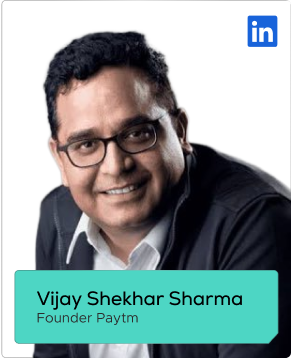
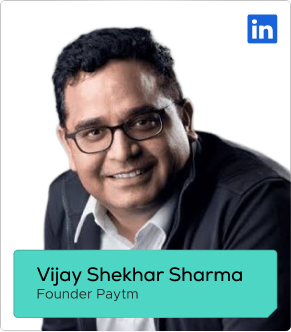
fixed

diff --git a/src/components/sections/about/AboutInvestorsSection.jsx b/src/components/sections/about/AboutInvestorsSection.jsx
@@ -11,7 +11,7 @@ import narayan from '../../../assets/images/narayanenv.png';
 const TOP_INVESTORS = [
   { name: 'Mohit Tandon', card: mohit, aspectRatio: '315 / 359' },
   { name: 'Himanshu Aggarwal', card: himanshu, aspectRatio: '315 / 359' },
-  { name: 'Vijay Shekhar Sharma', card: vijayShekhar, aspectRatio: '291 / 358' },
+  { name: 'Vijay Shekhar Sharma', card: vijayShekhar, aspectRatio: '315 / 359' },
 ];
 
 const BOTTOM_INVESTORS = [
@@ -60,7 +60,7 @@ export default function AboutInvestorsSection() {
         </h2>
 
         <div
-          className="flex items-center justify-center"
+          className="flex items-center flex-col justify-center"
           style={{
             gap: '26px',
             marginBottom: '24px',
@@ -70,10 +70,11 @@ export default function AboutInvestorsSection() {
             src={logoNavi}
             alt="Rainmatter"
             style={{
-              width: '132px',
+              width: '232px',
               height: 'auto',
               objectFit: 'contain',
               flexShrink: 0,
+              marginTop: '-82px',
             }}
           />
           <img
@@ -84,6 +85,7 @@ export default function AboutInvestorsSection() {
               height: 'auto',
               objectFit: 'contain',
               flexShrink: 0,
+              marginTop: '-122px',
             }}
           />
         </div>
@@ -130,7 +132,7 @@ export default function AboutInvestorsSection() {
           <div
             className="justify-self-start text-left"
             style={{
-              width: 'clamp(180px, 18vw, 260px)',
+              width: '320px',
             }}
           >
             <h2
@@ -146,30 +148,37 @@ export default function AboutInvestorsSection() {
             </h2>
 
             <div
-              className="flex items-center justify-start"
+              className="flex flex-col items-start justify-start"
               style={{
-                gap: 'clamp(14px, 1.6vw, 24px)',
-                flexWrap: 'nowrap',
+                gap: '4px',
+                marginTop: '-6px',
               }}
             >
               <img
                 src={logoNavi}
                 alt="Rainmatter"
                 style={{
-                  width: 'clamp(86px, 7.4vw, 118px)',
-                  height: 'auto',
+                  width: '400px',
+                  height: '300px',
                   objectFit: 'contain',
+                  objectPosition: 'left center',
                   flexShrink: 0,
+                  display: 'block',
+                  marginBottom: '-12px',
+                  marginTop: '-92px',
+                  marginLeft: '-30px',
                 }}
               />
               <img
                 src={logoBvfl}
                 alt="GVFL"
                 style={{
-                  width: 'clamp(74px, 6.8vw, 108px)',
+                  width: '138px',
                   height: 'auto',
                   objectFit: 'contain',
                   flexShrink: 0,
+                  display: 'block',
+                  marginTop: '-92px',
                 }}
               />
             </div>
